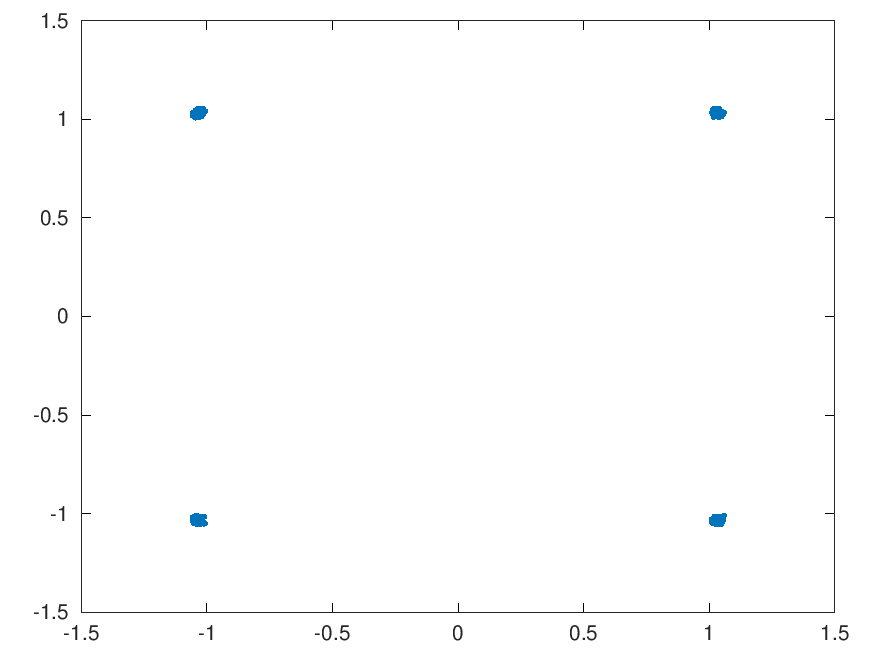
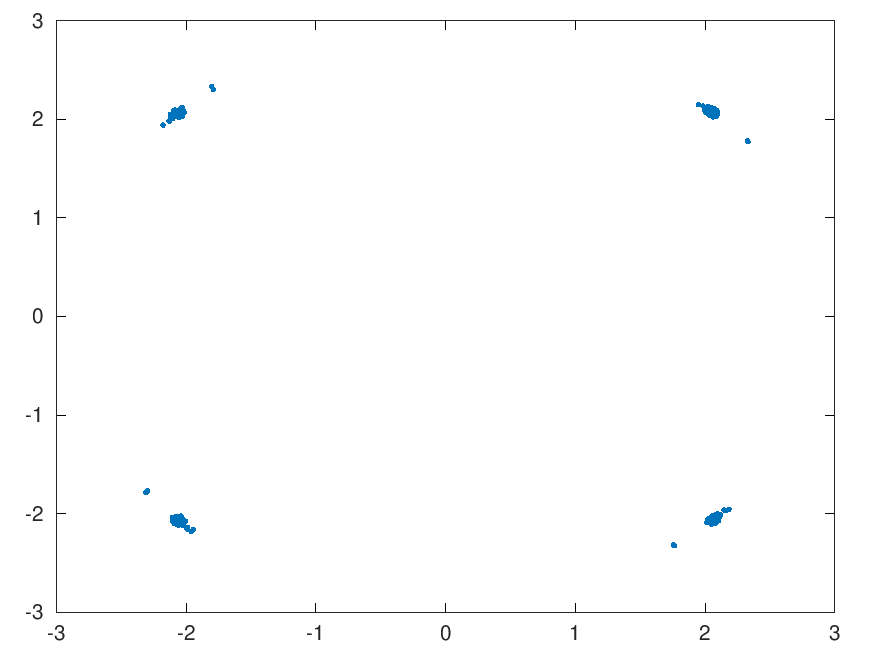
minor changes

diff --git a/qpsk.c b/qpsk.c
@@ -39,7 +39,7 @@ complex float tx_filter[NTAPS];
 complex float rx_filter[NTAPS];
 
 complex float input_frame[FRAME_SIZE];
-complex float decimated_frame[FRAME_SIZE / 4];
+complex float decimated_frame[FRAME_SIZE / 2];
 complex float costas_frame[FRAME_SIZE / CYCLES];
 
 // Two phase for full duplex
@@ -54,6 +54,63 @@ float fbb_offset_freq;
 
 float d_error;
 
+#ifdef FUTURE
+/*
+ * Resampler for 8 kHz to 48 kHz
+ * Generate using fir1(47,1/6) in Octave
+ */
+static const float filter48[] = {
+    -3.55606818e-04,
+    -8.98615286e-04,
+    -1.40119781e-03,
+    -1.71713852e-03,
+    -1.56471179e-03,
+    -6.28128960e-04,
+    1.24522223e-03,
+    3.83138676e-03,
+    6.41309478e-03,
+    7.85893186e-03,
+    6.93514929e-03,
+    2.79361991e-03,
+    -4.51051400e-03,
+    -1.36671853e-02,
+    -2.21034939e-02,
+    -2.64084653e-02,
+    -2.31425052e-02,
+    -9.84218694e-03,
+    1.40648474e-02,
+    4.67316298e-02,
+    8.39615986e-02,
+    1.19925275e-01,
+    1.48381174e-01,
+    1.64097819e-01,
+    1.64097819e-01,
+    1.48381174e-01,
+    1.19925275e-01,
+    8.39615986e-02,
+    4.67316298e-02,
+    1.40648474e-02,
+    -9.84218694e-03,
+    -2.31425052e-02,
+    -2.64084653e-02,
+    -2.21034939e-02,
+    -1.36671853e-02,
+    -4.51051400e-03,
+    2.79361991e-03,
+    6.93514929e-03,
+    7.85893186e-03,
+    6.41309478e-03,
+    3.83138676e-03,
+    1.24522223e-03,
+    -6.28128960e-04,
+    -1.56471179e-03,
+    -1.71713852e-03,
+    -1.40119781e-03,
+    -8.98615286e-04,
+    -3.55606818e-04
+};
+#endif
+
 /*
  * QPSK Quadrant bit-pair values - Gray Coded
  */
@@ -63,6 +120,58 @@ const complex float constellation[] = {
     0.0f - 1.0f * I, // -Q
     -1.0f + 0.0f * I // -I
 };
+
+#ifdef FUTURE
+
+// Think about using 8 kHz rate versus 9600
+
+/*
+ * Changes the sample rate of a signal from 8 kHz to 48 kHz.
+ *
+ * n is the number of samples at the 8 kHz rate, there are OS_48 * n samples
+ * at the 48 kHz rate.  A memory of OS_TAPS_48/OS_48 samples is reqd for in8k[]
+ */
+void resample_8_to_48(float out48k[], float in8k[], int n)
+{
+    for (int i = 0; i < n; i++) {
+	for (int j = 0; j < OS_48; j++) {
+	    out48k[i * OS_48 + j] = 0.0f;
+	    
+	    for (int k = 0, l = 0; k < OS_TAPS_48K; k += OS_48, l++)
+		out48k[i * OS_48 + j] += filter48[k + j] * in8k[i - l];
+	    
+	    out48k[i * OS_48 + j] *= OS_48;
+	}
+    }	
+
+    /* update filter memory */
+
+    for (int i = -OS_TAPS_48_8K; i < 0; i++)
+	in8k[i] = in8k[i + n];
+}
+
+/*
+ * Changes the sample rate of a signal from 48 to 8 kHz.
+ *
+ * n is the number of samples at the 8 kHz rate, there are OS_48 * n
+ * samples at the 48 kHz rate.  As above however a memory of
+ * OS_TAPS_48 samples is reqd for in48k[]
+ */
+void resample_48_to_8(float out8k[], float in48k[], int n)
+{
+    for (int i = 0; i < n; i++) {
+	out8k[i] = 0.0f;
+
+	for (int j = 0; j < OS_TAPS_48K; j++)
+	    out8k[i] += filter48[j] * in48k[i * OS_48 - j];
+    }
+
+    /* update filter memory */
+
+    for (int i = -OS_TAPS_48K; i < 0; i++)
+	in48k[i] = in48k[i + n * OS_48];
+}
+#endif
 
 /*
  * Gray coded QPSK demodulation function
@@ -88,11 +197,20 @@ static void qpsk_demod(complex float symbol, int bits[]) {
 /*
  * Receive function
  * 
- * 1200 baud QPSK at 9600 sample rate
+ * 2400 baud QPSK at 9600 samples/sec.
  *
  * Remove any frequency and timing offsets
+ *
+ * NOTE: This whole histogram algorith is highly suspect
+ *       It doesn't work with different symbol rates.
  */
 static void rx_frame(int16_t in[], int bits[]) {
+    float max_i = 0.0f;
+    float max_q = 0.0f;
+
+    float av_i = 0.0f;;
+    float av_q = 0.0f;
+
     /*
      * You need as many histograms as you think
      * you'll need for timing offset. Using 8 for now.
@@ -100,33 +218,32 @@ static void rx_frame(int16_t in[], int bits[]) {
      */
     int hist_i[8] = { 0 };
     int hist_q[8] = { 0 };
+    
+    int hmax = 0;
+    int index = 0;
+
     int hist[8] = { 0 };
 
     /*
-     * Convert input PCM to complex samples at 9600 sample rate
-     * by translating from 1500 Hz center frequency to baseband.
+     * Convert input PCM to complex samples
+     * at 9600 Hz sample rate
      */
     for (int i = 0; i < FRAME_SIZE; i++) {
         fbb_rx_phase *= fbb_rx_rect;
 
-        input_frame[i] = fbb_rx_phase * ((float) in[i] / 16384.0f);	// +/- .5 or so
+        input_frame[i] = fbb_rx_phase * ((float) in[i] / 16384.0f);
     }
 
     fbb_rx_phase /= cabsf(fbb_rx_phase); // normalize as magnitude can drift
 
     /*
-     * Raised Root Cosine Baseband Filter
+     * Raised Root Cosine Filter
      */
-    rrc_fir(rx_filter, input_frame, FRAME_SIZE);	// 1200 Baud, 9600 sample rate
-
-    float max_i = 0.0f;
-    float max_q = 0.0f;
-
-    float av_i = 0.0f;
-    float av_q = 0.0f;
+    rrc_fir(rx_filter, input_frame, FRAME_SIZE);
 
     /*
      * Find maximum absolute I/Q value for one symbol length
+     * after passing through the filter
      */
     for (int i = 0; i < FRAME_SIZE; i += CYCLES) {
         for (int j = 0; j < CYCLES; j++) {
@@ -166,14 +283,11 @@ static void rx_frame(int16_t in[], int bits[]) {
         }
     }
 
-    int hmax = 0;
-    int index = 0;
-
     /*
      * Sum the I/Q histograms
-     * and index the maximum value
+     * and ind the maximum value
      */
-    for (int i = 1; i < 8; i++) {            
+    for (int i = 0; i < 8; i++) {            
         hist[i] = (hist_i[i] + hist_q[i]);
 
         if (hist[i] > hmax) {
@@ -183,28 +297,14 @@ static void rx_frame(int16_t in[], int bits[]) {
     }
 
     /*
-     * Decimate by CYCLES, at this point we have the 1200 Baud QPSK signal.
-     *
-     * Adjust for the timing error using index
+     * Decimate by 4 to the 2400 symbol rate
+     * adjust for the timing error using index
      */
-    for (int i = 0; i < (FRAME_SIZE / CYCLES); i++) {			// 512 / 8 = 64
-        int extended = (FRAME_SIZE / CYCLES) + i;			// compute once
+    for (int i = 0; i < (FRAME_SIZE / CYCLES); i++) {
+        int extended = (FRAME_SIZE / CYCLES) + i; // compute once
         
         decimated_frame[i] = decimated_frame[extended];			// use previous frame
-#ifdef BUGGY
         decimated_frame[extended] = input_frame[(i * CYCLES) + index];	// current frame
-#endif
-
-/*=======================================
-  =======================================
-
-TODO - Bug, my offset index finder doesn't seem to work
-As you can tell, if you put in 6 it is accurate
-
-  ==================================================
-  ================================================*/
-
-        decimated_frame[extended] = input_frame[(i * CYCLES) + 6];
     }
 
     if (get_costas_enable() == true) {
@@ -246,19 +346,19 @@ As you can tell, if you put in 6 it is accurate
 }
 
 /*
- * Modulate the 1200 sym/s. First re-sample at 9600 samples/s inserting zero's,
+ * Modulate the 2400 sym/s. First re-sample at 9600 samples/s inserting zero's,
  * then post filtered using the root raised cosine FIR, then translated to
  * 1500 Hz center frequency.
  */
 static int tx_frame(int16_t samples[], complex float symbol[], int length) {
     int n = (length * CYCLES);
-    complex float signal[n];	// big enough for 8x sample rate
+    complex float signal[n];	// big enough for 4x sample rate
 
     /*
-     * Build the 1200 sym/s packet Frame by zero padding
-     * for the desired (8x nyquist) 9600 sample rate.
+     * Build the 2400 sym/s packet Frame by zero padding
+     * for the desired (4x nyquist) 9600 sample rate.
      *
-     * signal[] array length is now 8x longer.
+     * signal[] array length is now 4x longer.
      */
     for (int i = 0; i < length; i++) {
         int index = (i * CYCLES);	// compute once
@@ -277,7 +377,7 @@ static int tx_frame(int16_t samples[], complex float symbol[], int length) {
     rrc_fir(tx_filter, signal, n);
 
     /*
-     * Shift Baseband to 1500 Hz Center Frequency
+     * Shift Baseband to Center Frequency
      */
     for (int i = 0; i < n; i++) {
         fbb_tx_phase *= fbb_tx_rect;
@@ -315,8 +415,9 @@ static int qpsk_packet_mod(int16_t samples[], int tx_bits[], int length) {
         symbol[i] = qpsk_mod(dibit);
     }
 
-    return tx_frame(samples, symbol, length/2);
+    return tx_frame(samples, symbol, length);
 }
+
 
 // Main Program
 
@@ -333,7 +434,7 @@ int main(int argc, char** argv) {
      * The loop bandwidth determins the lock range
      * and should be set around TAU/100 to TAU/200
      */
-    create_control_loop((TAU / 100.0f), -1.6f, 1.6f);
+    create_control_loop((TAU / 200.0f), -1.6f, 1.6f);
 
     //set_costas_enable(false);
 
@@ -363,7 +464,8 @@ int main(int argc, char** argv) {
             bits[i + 1] = rand() % 2;
         }
 
-        length = qpsk_packet_mod(frame, bits, FRAME_SIZE);
+        // Send 256 dibits
+        length = qpsk_packet_mod(frame, bits, (FRAME_SIZE / 2));
 
         fwrite(frame, sizeof (int16_t), length, fout);
     }
@@ -394,3 +496,4 @@ int main(int argc, char** argv) {
 
     return (EXIT_SUCCESS);
 }
+

diff --git a/qpsk.h b/qpsk.h
@@ -14,12 +14,16 @@ extern "C"
 #define TX_FILENAME "/tmp/spectrum.raw"
 
 #define FS              9600.0
-#define RS              1200.0
+#define RS              2400.0
 #define CENTER          1500.0
 
 #define CYCLES          (int) (FS / RS)
 
 #define FRAME_SIZE      512
+
+#define OS_48           6                   // oversampling rate
+#define OS_TAPS_48K     48                  // number of OS filter taps at 48 kHz
+#define OS_TAPS_48_8K   (OS_TAPS_48K/OS_48) // number of OS filter taps at 8 kHz
 
 #ifndef M_PI
 #define M_PI            3.14159265358979323846
